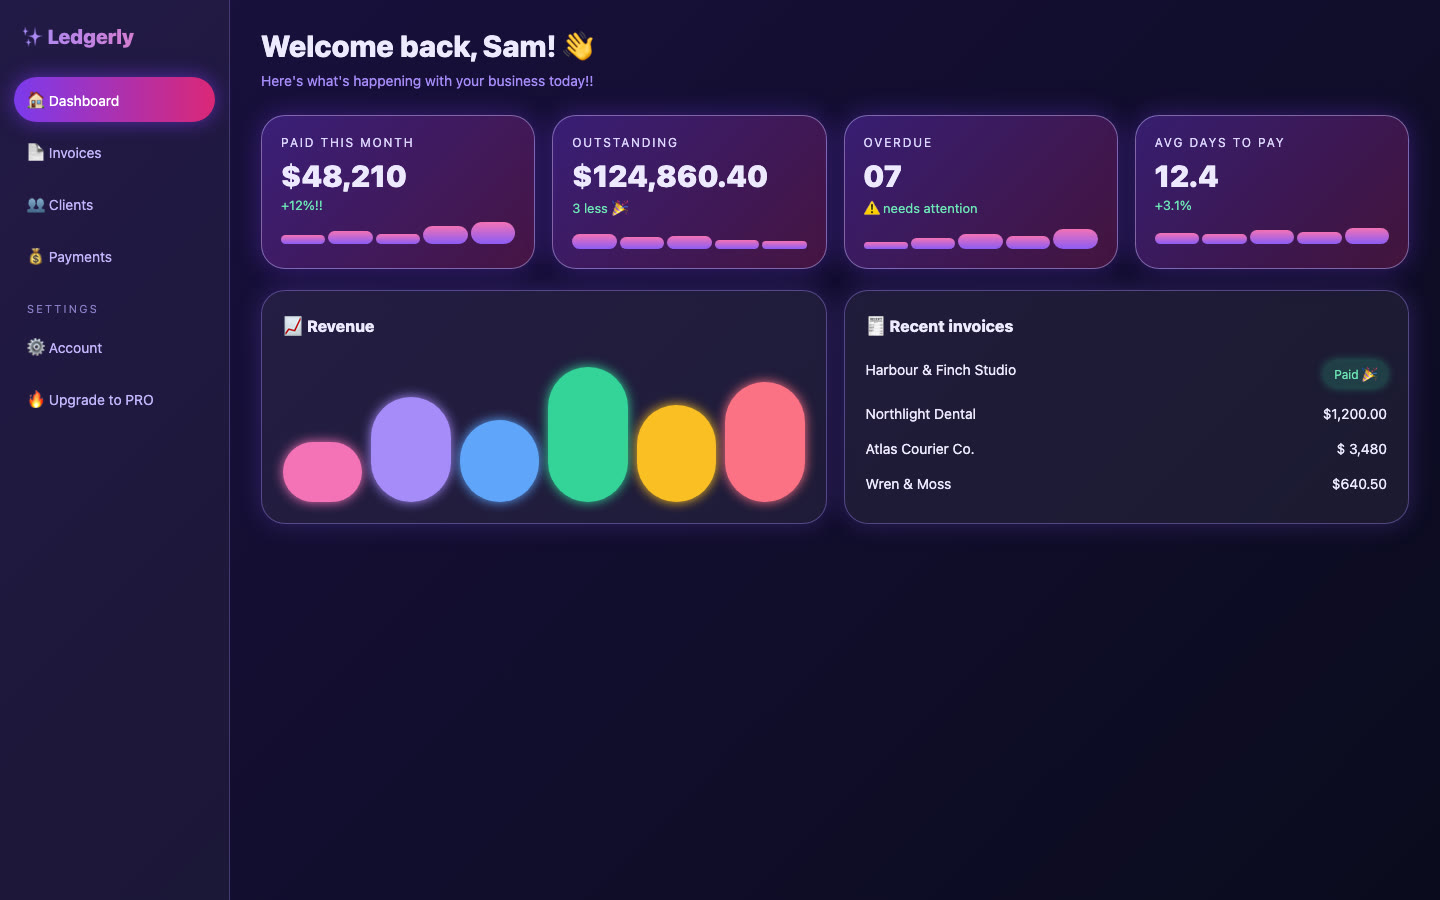
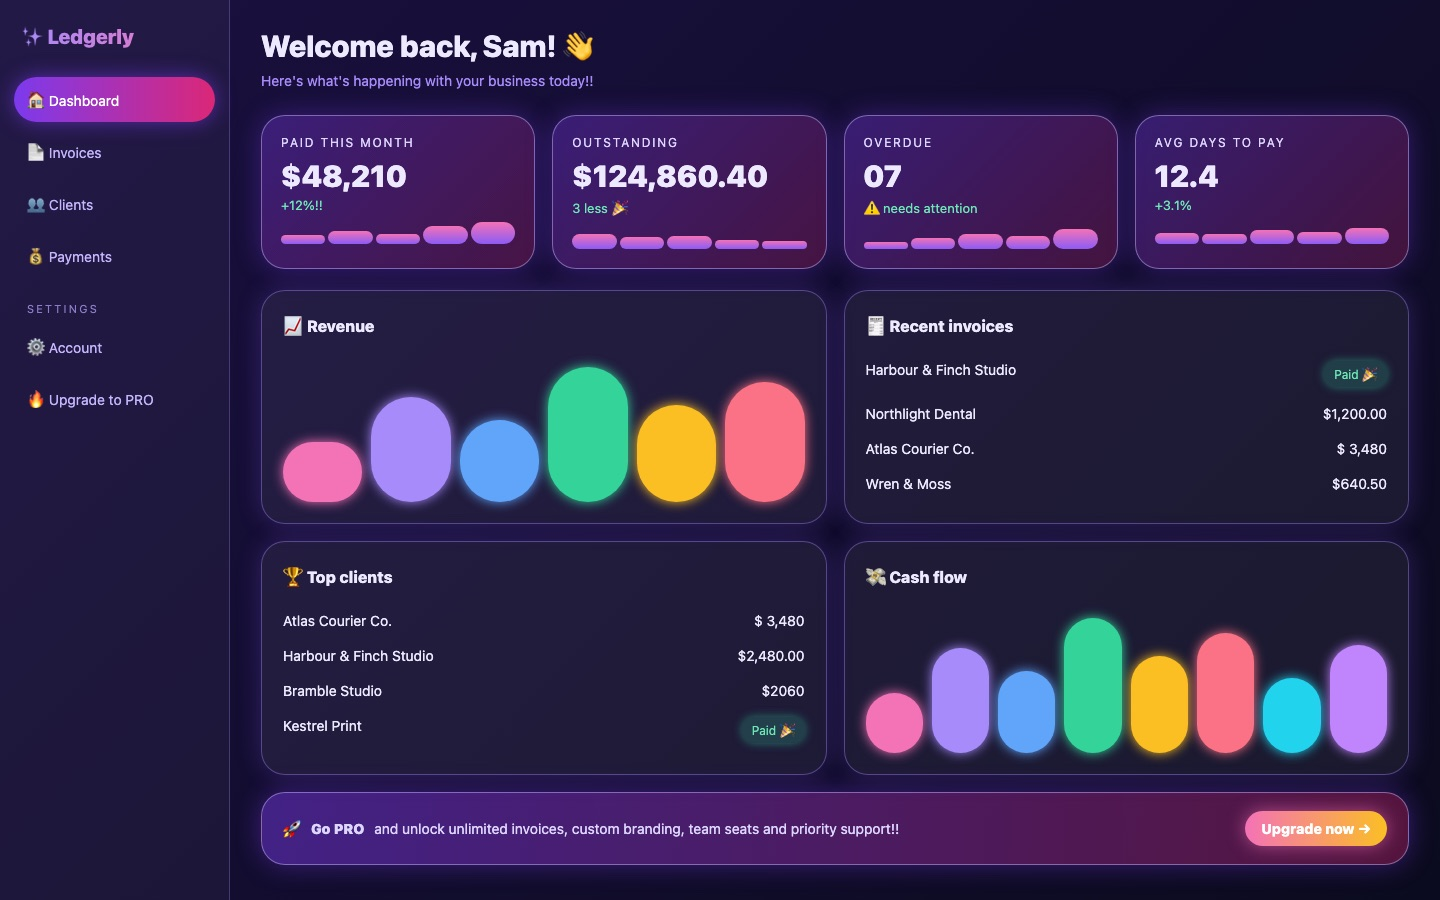
fix(examples): the before dashboard fills the frame, so the compare shows two complete screens instead of one and a void
Generated by Mistral Vibe.

diff --git a/examples/dashboard/before.html b/examples/dashboard/before.html
@@ -27,9 +27,12 @@
   .panel h3 { margin: 0 0 14px; font-size: 16px; font-weight: 800; }
   .bars { height: 150px; display: flex; gap: 9px; align-items: flex-end; }
   .bars i { flex: 1; border-radius: 9999px; box-shadow: 0 0 12px currentColor; }
-  .bars i:nth-child(1){height:40%;background:#f472b6;color:#f472b6}.bars i:nth-child(2){height:70%;background:#a78bfa;color:#a78bfa}.bars i:nth-child(3){height:55%;background:#60a5fa;color:#60a5fa}.bars i:nth-child(4){height:90%;background:#34d399;color:#34d399}.bars i:nth-child(5){height:65%;background:#fbbf24;color:#fbbf24}.bars i:nth-child(6){height:80%;background:#fb7185;color:#fb7185}
+  .bars i:nth-child(1){height:40%;background:#f472b6;color:#f472b6}.bars i:nth-child(2){height:70%;background:#a78bfa;color:#a78bfa}.bars i:nth-child(3){height:55%;background:#60a5fa;color:#60a5fa}.bars i:nth-child(4){height:90%;background:#34d399;color:#34d399}.bars i:nth-child(5){height:65%;background:#fbbf24;color:#fbbf24}.bars i:nth-child(6){height:80%;background:#fb7185;color:#fb7185}.bars i:nth-child(7){height:50%;background:#22d3ee;color:#22d3ee}.bars i:nth-child(8){height:72%;background:#c084fc;color:#c084fc}
   .rows div { display: flex; justify-content: space-between; padding: 9px 0; font-size: 14px; }
   .pill { padding: 3px 10px; border-radius: 9999px; background: rgba(52,211,153,.2); color: #6ee7b7; box-shadow: 0 0 10px rgba(52,211,153,.5); font-size: 12px; }
+  .promo { margin-top: 17px; padding: 18px 21px; border-radius: 24px; font-size: 14px; color: #ddd6fe; background: linear-gradient(90deg, rgba(124,58,237,.45), rgba(219,39,119,.35)); border: 1px solid rgba(196,181,253,.5); box-shadow: 0 0 26px rgba(124,58,237,.4); display: flex; align-items: center; gap: 10px; }
+  .promo b { font-weight: 900; }
+  .promo .cta { margin-left: auto; padding: 9px 16px; border-radius: 9999px; font-weight: 800; color: #fff; background: linear-gradient(90deg,#f472b6,#fbbf24); box-shadow: 0 0 18px rgba(244,114,182,.6); }
   @media (max-width: 800px) { body { grid-template-columns: 1fr; } aside { display: none; } .stats { grid-template-columns: 1fr 1fr; } .grid { grid-template-columns: 1fr; } }
 </style>
 </head>
@@ -61,6 +64,15 @@
       <div><span>Atlas Courier Co.</span><span>$ 3,480</span></div>
       <div><span>Wren &amp; Moss</span><span>$640.50</span></div></div></section>
   </div>
+  <div class="grid" style="margin-top:17px">
+    <section class="panel"><h3>🏆 Top clients</h3><div class="rows">
+      <div><span>Atlas Courier Co.</span><span>$ 3,480</span></div>
+      <div><span>Harbour &amp; Finch Studio</span><span>$2,480.00</span></div>
+      <div><span>Bramble Studio</span><span>$2060</span></div>
+      <div><span>Kestrel Print</span><span class="pill">Paid 🎉</span></div></div></section>
+    <section class="panel"><h3>💸 Cash flow</h3><div class="bars"><i></i><i></i><i></i><i></i><i></i><i></i><i></i><i></i></div></section>
+  </div>
+  <div class="promo">🚀 <b>Go PRO</b> and unlock unlimited invoices, custom branding, team seats and priority support!! <span class="cta">Upgrade now →</span></div>
 </main>
 </body>
 </html>
